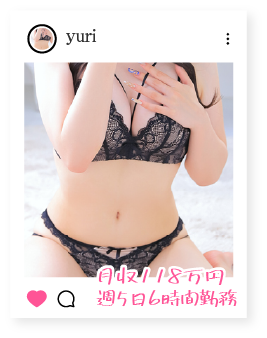
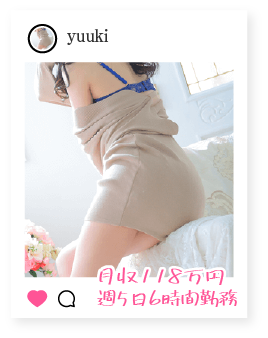
文言修正・画像差し替え

diff --git a/recruit/assets/css/components/_top.scss b/recruit/assets/css/components/_top.scss
@@ -70,35 +70,6 @@
     p {
       color: $blue;
       &:first-child {
-        font-size: 30px;
-        @include pc {
-          font-size: calc(30vw / (1200 / 100));
-        }
-        @include tab {
-          font-size: calc(42vw / (768 / 100));
-        }
-        &::after {
-          content: "";
-          display: inline-block;
-          width: 15px;
-          height: 30px;
-          background: url(../images/top-text-deco.png);
-          background-size: 15px 21px;
-          background-position: top;
-          background-repeat: no-repeat;
-          @include pc {
-            background-size: calc(15vw / (1200 / 100)) calc(21vw / (1200 / 100));
-            width: calc(15vw / (1200 / 100));
-            height: calc(21vw / (1200 / 100));
-          }
-          @include tab {
-            background-size: calc(20vw / (768 / 100)) calc(29vw / (768 / 100));
-            width: calc(20vw / (768 / 100));
-            height: calc(40vw / (768 / 100));
-          }
-        }
-      }
-      &:nth-child(2) {
         font-size: 60px;
         letter-spacing: -0.19rem;
         @include pc {
@@ -118,7 +89,7 @@
           }
         }
       }
-      &:nth-child(3) {
+      &:nth-child(2) {
         margin-bottom: 22px;
         padding-top: 4px;
         color: #fff;

diff --git a/recruit/components/faq.php b/recruit/components/faq.php
@@ -79,11 +79,11 @@
         <dt>知り合いにバレそうになったりしない？</dt>
         <dd>
           <p>
-            「ひょっとして遠い知り合い？」なんて場合はもちろん「どうしてもこのお客様は<br>
-            生理的に無理です」って場合も…もし気になるな、辛いなと思ったらどうぞご遠慮なく<br>
-            相談してください。当店は顧客管理に関しても業界ではありえないほど真剣に取り組んで<br>
-            おります！あたりまえながら、誰も傷つけることなくちゃんと対応させていただきます<br>
-            のでご安心ください。
+            「ひょっとして遠い知り合い？」なんて場合は<br class="tab">もちろん「どうしてもこのお客様は<br class="pc">
+            生理的に無理です」って場合も…<br class="tab">もし気になるな、辛いなと思ったらどうぞご遠慮なく<br class="pc">
+            相談してください。<br class="tab">当店は顧客管理に関しても業界ではありえないほど真剣に取り組んで<br class="pc">
+            おります！<br class="tab">あたりまえながら、誰も傷つけることなく<br class="tab">ちゃんと対応させていただきます<br class="pc">ので<br
+              class="tab">ご安心ください。
           </p>
         </dd>
       </div>
@@ -91,10 +91,10 @@
         <dt>10代でも雇っていただけますか？</dt>
         <dd>
           <p>
-            もちろん問題はありません。18歳以上の<br class="tab">やる気のある方ならどなたでも働いて<br>
-            いただけます。（18歳でも高校生は法律上<br class="tab">ダメですよ！）『会社の後に数時間だけ…』<br>
-            『今月は遊びすぎたからお小遣いが…』<br class="tab">自由出勤制の当店がすべての女性の問題を<br class="tab">簡単に<br class="pc">解決します。学生さんやフリーターの方<br
-              class="tab">からの『急に講義が無くなったので働きたい…』<br>
+            もちろん問題はありません。<br class="tab">18歳以上のやる気のある方ならどなたでも<br class="tab">働いて<br class="pc">いただけます。<br
+              class="tab">（18歳でも高校生は法律上ダメですよ！）<br class="tab">『会社の後に数時間だけ…』<br>
+            『今月は遊びすぎたからお小遣いが…』<br class="tab">自由出勤制の当店がすべての女性の問題を<br class="tab">簡単に<br class="pc">解決します。<br
+              class="tab">学生さんやフリーターの方からの<br class="tab">『急に講義が無くなったので働きたい…』<br>
             なんて相談もよくありますよ。
           </p>
         </dd>
@@ -104,9 +104,9 @@
         <dd>
           <p>
             グループ各店ともにいえることなのですが、<br class="tab">はっきり言って普通のビルすぎて拍子抜け<br>
-            する方が大半です。（笑）いわゆる「いかにも<br class="tab">ピンク業界！」的な外観を想像して<br class="pc">いらっしゃる<br
+            する方が大半です。（笑）<br class="tab">いわゆる「いかにもピンク業界！」的な外観を想像して<br class="pc">いらっしゃる<br
               class="tab">ならばそれは捨ててしまってください！<br class="tab">人目が気になるのは当たり前<br class="pc">ですよね、<br
-              class="tab">もちろんホテルもお店の近場で、入り口が<br class="tab">目立たない構造になっている<br class="pc">ところを選んで<br class="tab">いますよ！
+              class="tab">もちろんホテルもお店の近場で、<br class="tab">入り口が目立たない構造になっている<br class="pc">ところを<br class="tab">選んでいますよ！
           </p>
         </dd>
       </div>
@@ -114,10 +114,10 @@
         <dt>　髪色やピアス・服装などの規定はあるの？</dt>
         <dd>
           <p>
-            金髪だろうがピアスだろうがタトゥーだろうが、完全に不問なのはオシャレ好きな<br class="pc">女性には<br class="tab">ウレシイところでしょ？衣類も一般的に見て<br
-              class="tab">女性らしさが感じられる服装で<br class="pc">あれば、<br class="tab">特にコレじゃないと絶対ダメだなんて決まりは<br
-              class="tab">ありません、貴女のお好みに<br class="pc">任せます！<br class="tab">また面接の日から働く事も可能ですから、<br
-              class="tab">お給料を受け取ったその足で<br class="pc">新しい服やアクセサリーを買っちゃうのもアリ、<br class="tab">どんどん可愛くなってください☆
+            金髪だろうがピアスだろうがタトゥーだろうが、完全に不問なのはオシャレ好きな<br class="pc">女性には<br class="tab">ウレシイところでしょ？<br
+              class="tab">衣類も一般的に見て女性らしさが感じられる<br class="tab">服装で<br class="pc">あれば、特にコレじゃないと絶対ダメだなんて決まりはありません、<br
+              class="tab">貴女のお好みに<br class="pc">任せます！<br class="tab">また面接の日から働く事も可能ですから、<br class="tab">お給料を受け取ったその足で<br
+              class="pc">新しい服や<br class="tab">アクセサリーを買っちゃうのもアリ、<br class="tab">どんどん可愛くなってください☆
           </p>
         </dd>
       </div>
@@ -127,10 +127,9 @@
           <p>
             同性に身の上の込み入った話をするのが<br class="tab">イヤって方、男性相手だとうまく話せない<br class="pc">から<br
               class="tab">イヤって方…両方がいらっしゃいますよね？<br class="tab">私たちはそのどちらもの理由や<br class="pc">女性の心境を<br
-              class="tab">可能な限り理解して最適なマネージメントが<br class="tab">できるように、男女両方の<br class="pc">面接官を用意して<br
-              class="tab">います。スケジュール面で可能な限り調整<br class="tab">いたしますので<br class="pc">ご希望があればお伝えください。<br
-              class="tab">ちなみに、マンガの世界じゃ、強面の人がすぐに<br>
-            出てくるイメージがあるけどそんな事は<br class="tab">ありませんので安心してくださいね（笑）
+              class="tab">可能な限り理解して最適なマネージメントが<br class="tab">できるように、男女両方の<br class="pc">面接官を用意して<br class="tab">います。<br
+              class="tab">スケジュール面で可能な限り調整いたしますので<br class="pc">ご希望があればお伝えください。<br class="tab">ちなみに、マンガの世界じゃ、強面の人がすぐに<br
+              class="pc">出てくるイメージがあるけどそんな事は<br class="tab">ありませんので安心してくださいね（笑）
           </p>
         </dd>
       </div>
@@ -139,9 +138,9 @@
         <dd>
           <p>
             よく言う”掛け持ち”という事ですね、<br class="tab">当店は自由出勤制なのでどうぞご安心を。<br>
-            学校が急に休みになったとか、仕事の合間に少し<br class="tab">入りたい等も相談してください。<br>
-            もちろん、休日だけの出勤なんてのも<br class="tab">全然大丈夫、貴女の生活リズムにあった出勤の<br class="pc">仕方でお越しください。<br
-              class="tab">そして、現在同業の他店で働いているという<br class="tab">方は、まずは<br class="pc">ご相談ください。<br
+            学校が急に休みになったとか、<br class="tab">仕事の合間に少し入りたい等も<br class="tab">相談してください。<br>
+            もちろん、休日だけの出勤なんてのも<br class="tab">全然大丈夫、貴女の生活リズムにあった<br class="tab">出勤の<br class="pc">仕方でお越しください。<br
+              class="tab">そして、現在同業の他店で働いている<br class="tab">という方は、まずは<br class="pc">ご相談ください。<br
               class="tab">必ず貴女のお力になれる自信があります。
           </p>
         </dd>
@@ -151,8 +150,8 @@
         <dd>
           <p>
             もちろん衛生面は<br class="tab">しっかり管理させていただきます。<br class="tab">が、当店の基本システムには<br class="pc">キスや舐めるなどの<br
-              class="tab">行為自体がありませんので、まずはご安心いただいて結構ですよ！<br>また、それでも不安な方には、<br class="tab">実際にお仕事をしていた経歴をもった<br
-              class="tab">女性スタッフが<br class="pc">
+              class="tab">行為自体がありませんので、<br class="tab">まずはご安心いただいて結構ですよ！<br>また、それでも不安な方には、<br
+              class="tab">実際にお仕事をしていた経歴をもった<br class="tab">女性スタッフが<br class="pc">
             アドバイスもいたします。<br class="tab">ぜひご相談くださいませ。
           </p>
         </dd>

diff --git a/recruit/components/salary.php b/recruit/components/salary.php
@@ -19,7 +19,7 @@
 
     <div class="salary__box2">
       <p>お給料の説明の際最も多い質問が<br class="tab">「売り上げノルマや遅刻等での罰金があるの？」ですが・・・<br class="pc">当店はございません。<br
-          class="tab">例えばお子さんの急な発熱や・ペットの体調不良などご自身以外のことで<br class="pc">出勤できない事も<br class="tab">承知しております。<br
+          class="tab">例えばお子さんの急な発熱やペットの体調不良などご自身以外のことで<br class="pc">出勤できない事も<br class="tab">承知しております。<br
           class="tab">ただし必ず出勤1時間前には連絡ください。<br>
         体調が悪い場合は後報告でも構いません。<br>
         それと入店してすぐは指名もないので<br class="tab">稼げますかって質問が多いですが<br class="tab">新人さんこそが稼ぎやすい<br class="pc">
@@ -125,8 +125,7 @@
                 桃色吐息・ラップでグルグル！？・ビンタetc...
               </p>
               <p class="sp">
-                ※あたまポンポン・間接的にいたずら<br>
-                桃色吐息・ビンタetc...
+                ※あたまポンポン・間接的に<br>いたずら・桃色吐息・ビンタetc...
               </p>
             </td>
           </tr>

diff --git a/recruit/components/top.php b/recruit/components/top.php
@@ -12,7 +12,6 @@
             <img src="<?php echo $path; ?>assets/images/top-img1.png" alt="採用率99%">
           </div>
           <div class="top__text-box1">
-            <p>もちっとホイップコース</p>
             <p><span>60</span>分<span>12000</span>円</p>
             <p>ハンドサービスのコースバック</p>
             <img src="<?php echo $path; ?>assets/images/top-text-3p.png" alt="お触りなし・キスなし・フェラなし">
@@ -58,7 +57,6 @@
         </div>
 
         <div class="top__text-box1">
-          <p>もちっとホイップコース</p>
           <p><span>60</span>分<span>12000</span>円</p>
           <p>ハンドサービスのコースバック</p>
         </div>
